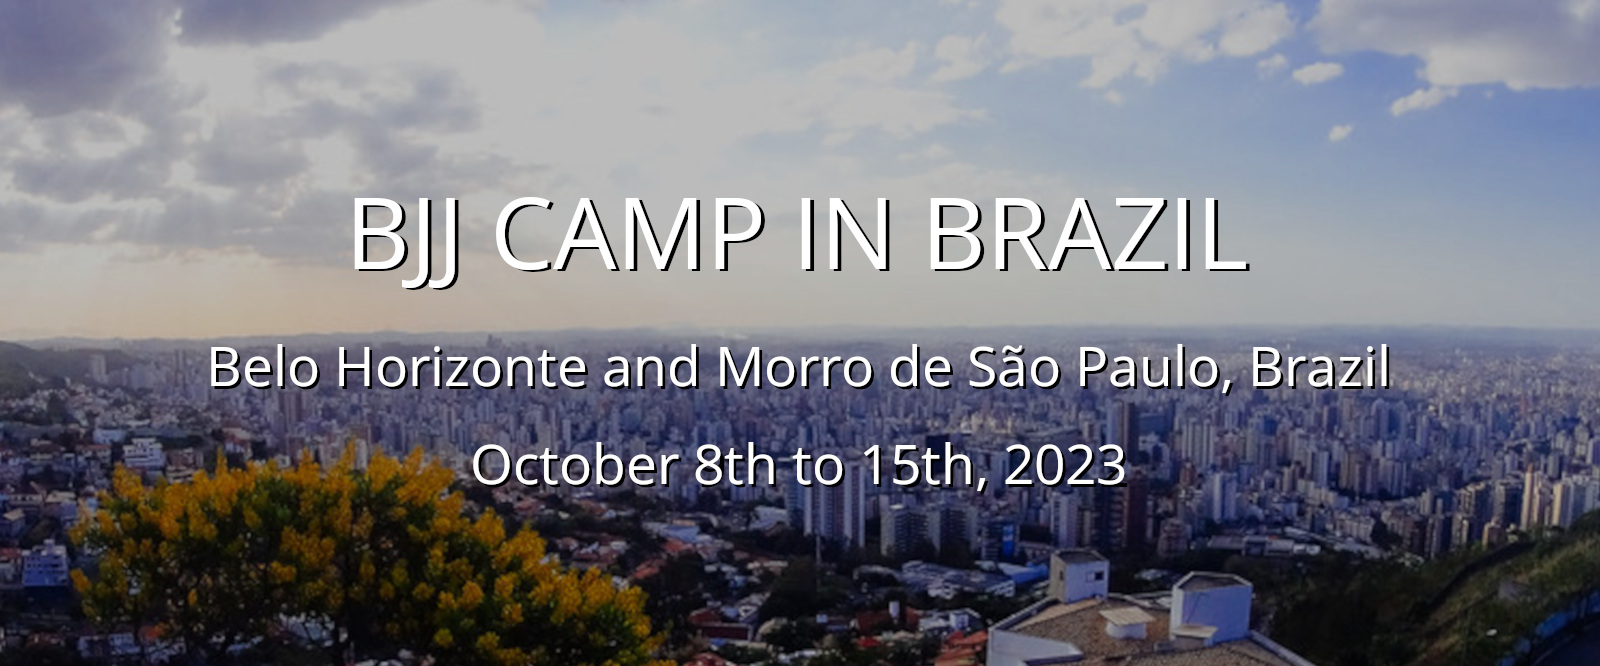
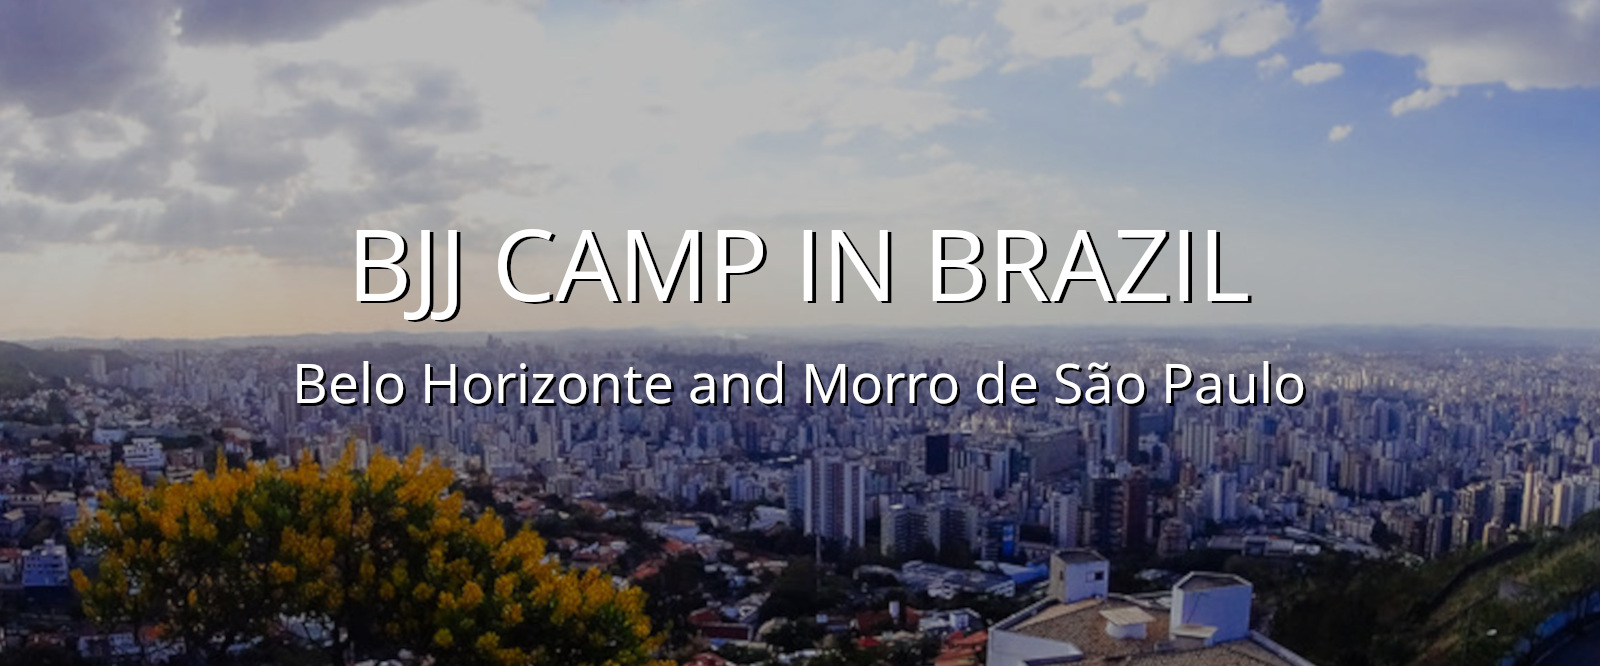
Changed camp to have no dates. Updated schdule layout.

Changed region(s): [[0.2188, 0.3003, 0.7812, 0.4805], [0.125, 0.5105, 0.875, 0.6306], [0.2812, 0.6607, 0.7188, 0.7508]]

diff --git a/bjj-camp-in-brazil.html b/bjj-camp-in-brazil.html
@@ -17,13 +17,13 @@
 	  	<link href='bjj-camp.css' rel='stylesheet' type='text/css'/>
 	</head>
 	<title>BJJ Camp in Brazil with Professor Marcelo Oliveira</title>
-	<h1>BJJ Camp in Brazil with Professor Marcelo Oliveira - October 8th to 15th, 2023</h1>
+	<h1>BJJ Camp in Brazil with Professor Marcelo Oliveira</h1>
 	<body>
         <div id="bjjcamp">
             <div id="header">
                 <div id="logo-img"><a href="https://www.jiujitsunewjersey.com/"><img src="images/ftc-site-logo.png" width="100%" alt="Jiu-Jitsu Family Training Center"/></a></div>
 				<div id="header-title">BJJ CAMP IN BRAZIL</div> 
-				<div id="subtitle"><span>Belo Horizonte and</span> <span>Morro de São Paulo</span><br/>October 8th to 15th, 2023</div>
+				<div id="subtitle"><span>Belo Horizonte and</span> <span>Morro de São Paulo</span><br/><br/></div>
 			</div>
             <div id="bjjcamp-description">
                 <div id="bjjsessions">
@@ -90,9 +90,9 @@
 				<div id="summary">
 					<div class="section-title">Trip Summary</div>
 					<div class="description">
-						<p><strong>When:</strong> October 8th to 15th, 2023</p>
+						<p><strong>When:</strong> Every Year in October. Contact us for exact dates.</p>
 						<p><strong>Where:</strong> The cities of Belo Horizonte and Morro de São Paulo in Brazil</p>
-						<p><strong>Who is welcome:</strong> All belt levels. Restrictions apply. Call for more information.</p>
+						<p><strong>Who is welcome:</strong> All belt levels. Restrictions apply. Contact us for more information.</p>
 						<p><strong>What's included:</strong>
 							<ul>
 								<li>Training at world-renowned Brazilian Jiu-jitsu academies by top trainers</li>
@@ -117,7 +117,7 @@
 					</div>
 				</div>
 				<div id="contact-us">
-					<div class="section-title">Contact us for pricing and more information.</div>
+					<div class="section-title">Contact us for dates, pricing and more information.</div>
 					<div id="contact-us-buttons">
 						<div class="text-button"><a href="tel:201-496-6990">Call Office</a></div>
 						<div class="text-button"><a href="tel:201-233-4220">Call Mobile</a></div> 

diff --git a/index.html b/index.html
@@ -21,7 +21,7 @@
 	<body>
 		<div id="page">
 			<div id="header">
-				<div id="top-banner"><a href="bjj-camp-in-brazil" target="_blank"><span>**Find out about our BJJ Camp in Brazil October 2023**</span></a></div>
+				<div id="top-banner"><a href="bjj-camp-in-brazil" target="_blank"><span>**Learn about our Yearly BJJ Camp in Brazil**</span></a></div>
 				<div id="header-bar">
 					<div id="header-image">
 						<a href="#welcome-to-ftc">
@@ -276,16 +276,14 @@
 					<div class="section-text">
 						<small>
 						- Kids Classes are 45 minutes.<br/>
-						- Adults Classes are 60 minutes.<br/>
 						- MMA Classes are adult-only.<br/>
-						<br/>
-						<strong>**Weekend Package Members: Saturday and Sundays BJJ Classes</strong>
 						</small>
-						<br />
+						<div class="learn-more-link"><a onclick='displaySection("private-classes")' href="#private-classes">&rarr;Learn more about private classes.</a></div>
 					</div>
 					<div id="schedule-container">
-						<iframe src="https://docs.google.com/document/d/1O6zL5I_T6aHNOtf6EQxi5K_TfrivAOTyPuFAbIH-XI4/pub?overridemobile=true&amp;embedded=true" id="schedule-iframe"></iframe>
+						<iframe scrolling="no" src="https://docs.google.com/document/d/1nZrTyPFyeI6OkcfAQg9mwYl-Avsz5xz54TLgaf86m6k/pub?embedded=true" id="schedule-iframe"></iframe>
 					</div>
+					<br/>
 				</div>
 								
 				<a id="contact-us" class="hidden-anchor"></a>

diff --git a/styles.css b/styles.css
@@ -367,24 +367,34 @@ Schedule iframe
 	text-align: center;
 	overflow: hidden;
 	height: 500px;
-	margin: 0;
+	margin: auto;
+    width: 100%;
+    max-width: 900px;
 
 }
 
 #schedule-iframe{
-	margin: 0;
-	max-width: 800px;
-	width: 100%;
-	height: 100vh;
+	margin: auto;
+	max-width: 1100px;
+	width: 90%;
+	height: 500px;
 	border: 0;
 	padding: 0 0 0 0;
 
 }  
 
-@media screen and (max-width: 400px) {
+@media screen and (max-width: 600px) {
 
 	#schedule-section {
 		padding:0;
+	}
+	#schedule-container {
+		overflow:unset;
+		overflow-y: clip;
+		overflow-x: scroll;
+	}
+	#schedule-iframe{
+		width: 800px;
 	}
 }
 

diff --git a/bjj-camp.css b/bjj-camp.css
@@ -67,12 +67,13 @@ span {
 }
 
 #header-title {
-	font-weight: 300;
+	font-weight: 400;
     font-size: 40px;
 	text-shadow: 2px 2px black;
 }
 
 #subtitle {
+	font-size: 20px;
 	text-shadow: 2px 2px black;
 	padding-bottom: 20px;
 }

diff --git a/script.js b/script.js
@@ -138,3 +138,4 @@ function loadHTML(htmlfile, sectionId) {
 function loadBJJCampInfo(){
 	loadHTML("bjj-camp-in-brazil.html", "content")
 }
+
